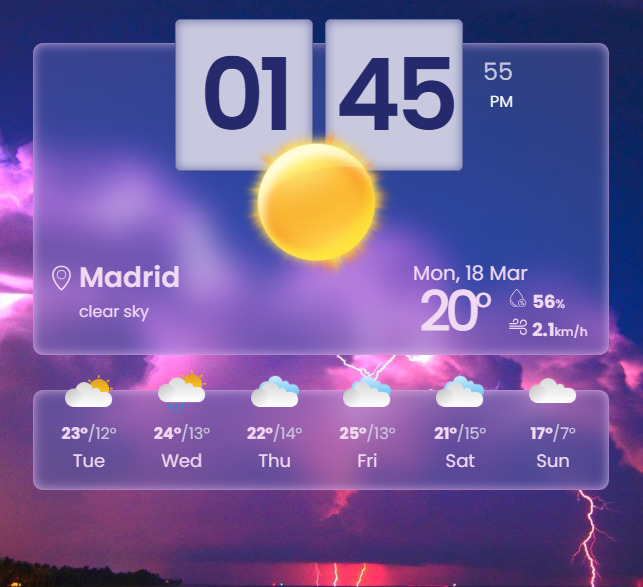
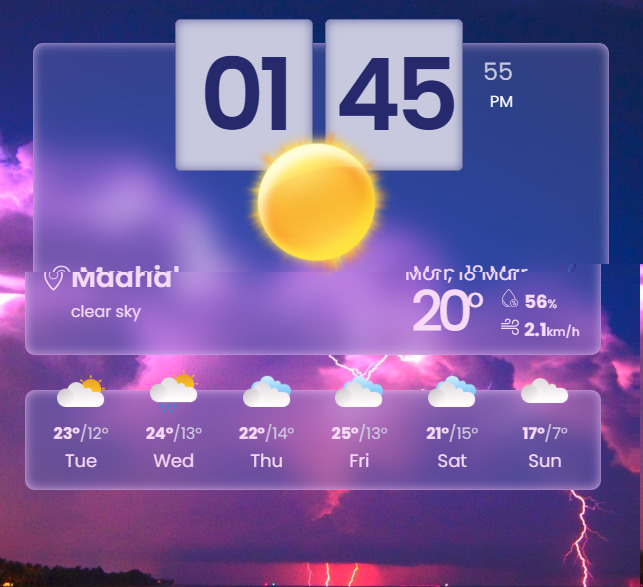
Added link to index.html
Added link to index.html for downloading CVs from google drive

diff --git a/index.html b/index.html
@@ -143,7 +143,13 @@
                 repellendus voluptate, distinctio saepe maxime qui totam
                 officiis adipisci quas eaque nobis ratione cum.
               </p>
-              <p><a href="#">Checkout my resume</a></p>
+              <p>
+                <a
+                  href="https://drive.google.com/file/d/1sRAXrxldUDfzsQZD6dlluM0oDySTOEZh/view?usp=sharing"
+                  target="_blank"
+                  >Checkout my resume</a
+                >
+              </p>
               <h4 class="mt-5 mb-2">Contact me here!</h4>
               <div
                 class="social-links d-flex justify-content-center justify-content-md-start mb-4"
